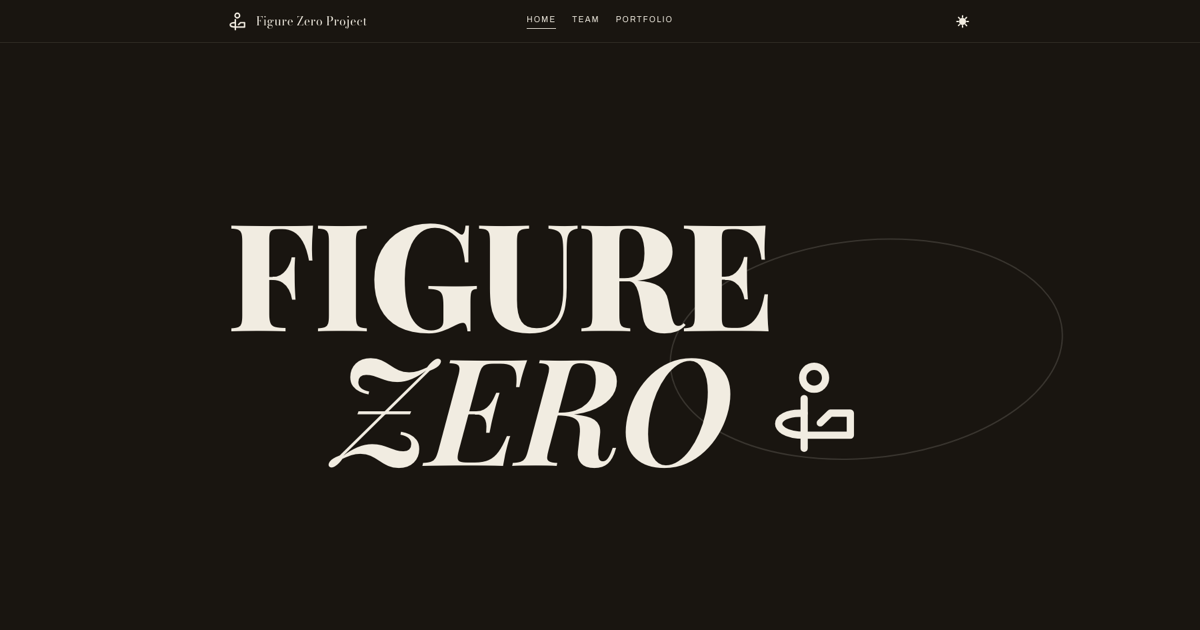
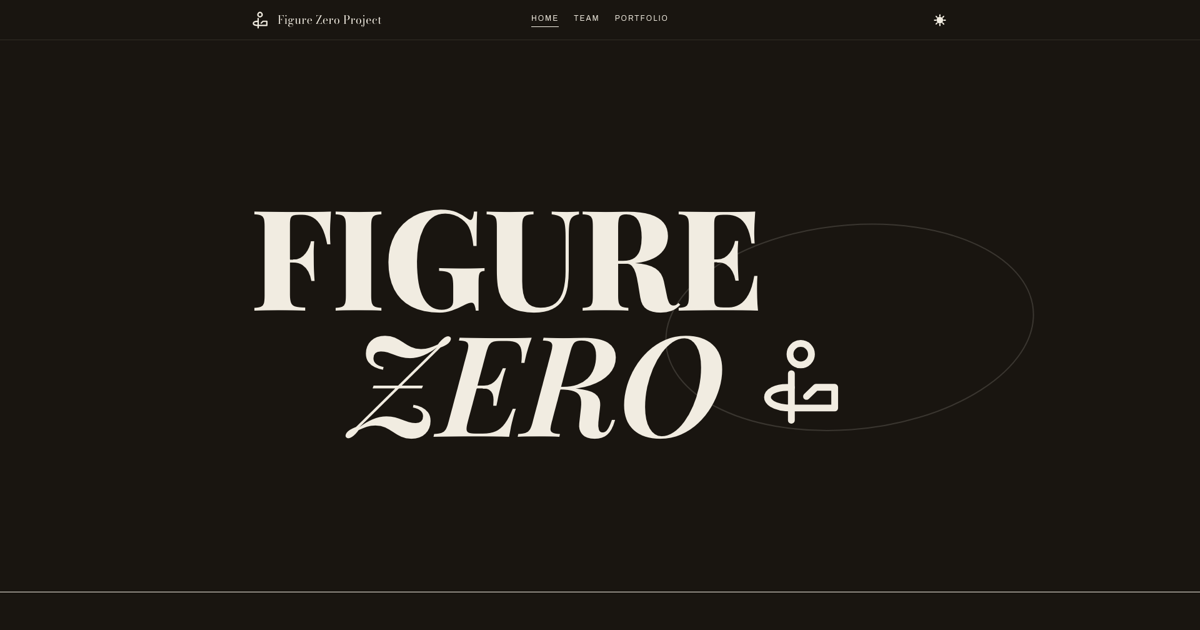
chore: maintain

diff --git a/astro.config.ts b/astro.config.ts
@@ -3,7 +3,7 @@ import react from '@astrojs/react';
 import robots from 'astro-robots-txt';
 import sitemap from '@astrojs/sitemap';
 import tailwind from '@tailwindcss/vite';
-import { defineConfig } from 'astro/config';
+import { defineConfig, fontProviders } from 'astro/config';
 
 export default defineConfig({
     adapter: netlify(),
@@ -13,6 +13,47 @@ export default defineConfig({
     devToolbar: {
         enabled: false,
     },
+    fonts: [
+        {
+            cssVariable: '--font-archivo',
+            display: 'block',
+            name: 'Archivo',
+            provider: fontProviders.fontsource(),
+            styles: ['normal'],
+            subsets: ['latin'],
+            weights: [400, 600],
+        },
+        {
+            cssVariable: '--font-bodoni-moda',
+            display: 'block',
+            fallbacks: ['Georgia', 'serif'],
+            name: 'Bodoni Moda',
+            provider: fontProviders.fontsource(),
+            styles: ['normal', 'italic'],
+            subsets: ['latin'],
+            weights: ['400 900'],
+        },
+        {
+            cssVariable: '--font-playfair-display',
+            display: 'block',
+            fallbacks: ['Georgia', 'serif'],
+            name: 'Playfair Display',
+            provider: fontProviders.fontsource(),
+            styles: ['normal', 'italic'],
+            subsets: ['latin'],
+            weights: ['400 900'],
+        },
+        {
+            cssVariable: '--font-source-serif-4',
+            display: 'block',
+            fallbacks: ['Georgia', 'serif'],
+            name: 'Source Serif 4',
+            provider: fontProviders.fontsource(),
+            styles: ['normal'],
+            subsets: ['latin'],
+            weights: ['200 900'],
+        },
+    ],
     integrations: [
         react(),
         robots(),

diff --git a/tests/unit/middleware.test.ts b/tests/unit/middleware.test.ts
@@ -29,7 +29,7 @@ describe('onRequest', () => {
 
     test('propagates a rejection from next on the /500 path itself', async () => {
         const { context, rewrite } = createContext('/500');
-        const failure = new Error('boom');
+        const failure = new Error('Boom.');
 
         const next: MiddlewareNext = vi.fn(async () => {
             throw failure;
@@ -94,7 +94,7 @@ describe('onRequest', () => {
         const { context, rewrite } = createContext('/api/covers');
 
         const next: MiddlewareNext = vi.fn(async () => {
-            throw new Error('boom');
+            throw new Error('Boom.');
         });
 
         const response = await onRequest(context, next) as Response;
@@ -102,7 +102,7 @@ describe('onRequest', () => {
         expect(response).toBeInstanceOf(Response);
         expect(response.status).toBe(500);
 
-        await expect(response.json()).resolves.toEqual({ error: 'Internal server error' });
+        await expect(response.json()).resolves.toEqual({ error: 'Internal server error.' });
 
         expect(rewrite).not.toHaveBeenCalled();
     });
@@ -111,7 +111,7 @@ describe('onRequest', () => {
         const { context, rewrite, rewritten } = createContext('/team');
 
         const next: MiddlewareNext = vi.fn(async () => {
-            throw new Error('boom');
+            throw new Error('Boom.');
         });
 
         const response = await onRequest(context, next);
@@ -124,7 +124,7 @@ describe('onRequest', () => {
         const { context, rewrite, rewritten } = createContext('/api');
 
         const next: MiddlewareNext = vi.fn(async () => {
-            throw new Error('boom');
+            throw new Error('Boom.');
         });
 
         const response = await onRequest(context, next);

diff --git a/tests/unit/store.test.ts b/tests/unit/store.test.ts
@@ -85,7 +85,7 @@ describe('loadTheme', () => {
         const storage = buildStorage('{ "theme": "light" }');
 
         storage.setItem.mockImplementation(() => {
-            throw new Error('denied');
+            throw new Error('Denied.');
         });
 
         vi.stubGlobal('localStorage', storage);
@@ -111,7 +111,7 @@ describe('loadTheme', () => {
         const storage = buildStorage();
 
         storage.getItem.mockImplementation(() => {
-            throw new Error('denied');
+            throw new Error('Denied.');
         });
 
         vi.stubGlobal('localStorage', storage);
@@ -124,7 +124,7 @@ describe('loadTheme', () => {
         const storage = buildStorage('{"theme":"purple"}');
 
         storage.removeItem.mockImplementation(() => {
-            throw new Error('denied');
+            throw new Error('Denied.');
         });
 
         vi.stubGlobal('localStorage', storage);
@@ -150,7 +150,7 @@ describe('saveTheme', () => {
         const storage = buildStorage();
 
         storage.setItem.mockImplementation(() => {
-            throw new Error('denied');
+            throw new Error('Denied.');
         });
 
         vi.stubGlobal('localStorage', storage);

diff --git a/tests/e2e/prod.test.ts b/tests/e2e/prod.test.ts
@@ -54,7 +54,7 @@ function getEntries(root: string, collection: string) {
 function getHeaderNames(config: string, scope: string) {
     const section = config.split('[[headers]]').find(block => block.includes(`for = '${scope}'`));
 
-    if (section === undefined) throw new Error(`missing headers block for ${scope} in netlify.toml`);
+    if (section === undefined) throw new Error(`Missing headers block for ${scope} in netlify.toml.`);
 
     return [...section.matchAll(/^([\w-]+) = /gm)]
         .map(match => match[1] ?? '')
@@ -64,7 +64,7 @@ function getHeaderNames(config: string, scope: string) {
 function getHeaderValue(config: string, name: string) {
     const match = config.match(new RegExp(`^${name} = (['"])(.+)\\1$`, 'm'));
 
-    if (match === null) throw new Error(`missing ${name} in netlify.toml`);
+    if (match === null) throw new Error(`Missing ${name} in netlify.toml.`);
 
     return match[2];
 }
@@ -107,7 +107,7 @@ test.describe('production api', () => {
 
         const body: Record<string, unknown> = await response.json();
 
-        expect(body).toEqual({ error: 'Not found' });
+        expect(body).toEqual({ error: 'Not found.' });
     });
 });
 

diff --git a/src/global.css b/src/global.css
@@ -11,21 +11,10 @@
     --color-linen: light-dark(#e7e2d7, #332e26);
     --color-taupe: light-dark(#6e675d, #a79d8c);
     --color-umber: light-dark(#3b362e, #cfc7b7);
-    --font-display:
-        'Bodoni Moda Variable',
-        serif;
-    --font-poster:
-        'Playfair Display Variable',
-        Georgia,
-        serif;
-    --font-sans:
-        'Archivo',
-        system-ui,
-        sans-serif;
-    --font-serif:
-        'Source Serif 4 Variable',
-        Georgia,
-        serif;
+    --font-display: var(--font-bodoni-moda);
+    --font-poster: var(--font-playfair-display);
+    --font-sans: var(--font-archivo);
+    --font-serif: var(--font-source-serif-4);
     --spacing: 4px;
     --text-body: 18px;
     --text-heading: clamp(32px, calc(22.6667px + 2.9167vw), 60px);

diff --git a/tests/e2e/status.test.ts b/tests/e2e/status.test.ts
@@ -29,7 +29,7 @@ async function expectJsonNotFound(response: APIResponse) {
 
     const body: Record<string, unknown> = await response.json();
 
-    expect(body).toEqual({ error: 'Not found' });
+    expect(body).toEqual({ error: 'Not found.' });
 }
 
 function getSecurityHeaders() {
@@ -37,7 +37,7 @@ function getSecurityHeaders() {
 
     const section = config.split('[[headers]]').find(block => block.includes(`for = '/*'`));
 
-    if (section === undefined) throw new Error('missing headers block for /* in netlify.toml');
+    if (section === undefined) throw new Error('Missing headers block for /* in netlify.toml.');
 
     return [...section.matchAll(/^([a-z-]+) = (['"])(.*)\2$/gm)]
         .map(match => [match[1] ?? '', match[3] ?? ''] as const)

diff --git a/src/middleware.ts b/src/middleware.ts
@@ -12,7 +12,7 @@ export const onRequest = defineMiddleware(async (context, next) => {
 
         return response;
     } catch {
-        if (isApi) return Response.json({ error: 'Internal server error' }, { status: 500 });
+        if (isApi) return Response.json({ error: 'Internal server error.' }, { status: 500 });
 
         return context.rewrite('/500');
     }

diff --git a/src/lib/utils.ts b/src/lib/utils.ts
@@ -5,7 +5,7 @@ const IMAGES = import.meta.glob<ImageMetadata>('/src/images/**/*.webp', { eager:
 export function resolveImage(path: string): ImageMetadata {
     const image = IMAGES[`/src${path}`];
 
-    if (!image) throw new Error(`failed to resolve image ${path}`);
+    if (!image) throw new Error(`Failed to resolve image ${path}.`);
 
     return image;
 }

diff --git a/tests/e2e/motion.test.ts b/tests/e2e/motion.test.ts
@@ -87,7 +87,7 @@ function getHeaderHeight() {
 
     const match = styles.match(/--header-height: (\d+)px/);
 
-    if (match === null) throw new Error('missing --header-height in src/global.css');
+    if (match === null) throw new Error('Missing --header-height in src/global.css.');
 
     return Number(match[1]);
 }

diff --git a/tests/integration/apiPath.test.ts b/tests/integration/apiPath.test.ts
@@ -18,7 +18,7 @@ async function expectNotFoundJson(response: Response, method: string) {
 
     const result: Record<string, unknown> = await response.json();
 
-    expect(result, method).toEqual({ error: 'Not found' });
+    expect(result, method).toEqual({ error: 'Not found.' });
 }
 
 describe('api path', () => {

diff --git a/tests/unit/utils.test.ts b/tests/unit/utils.test.ts
@@ -62,6 +62,6 @@ describe('resolveImage', () => {
         }
 
         expect(caught).toBeInstanceOf(Error);
-        expect((caught as Error).message).toBe(`failed to resolve image ${UNKNOWN_IMAGE}`);
+        expect((caught as Error).message).toBe(`Failed to resolve image ${UNKNOWN_IMAGE}.`);
     });
 });

diff --git a/src/pages/api/[...path].ts b/src/pages/api/[...path].ts
@@ -2,4 +2,4 @@ import type { APIRoute } from 'astro';
 
 export const prerender = false;
 
-export const ALL: APIRoute = () => Response.json({ error: 'Not found' }, { status: 404 });
+export const ALL: APIRoute = () => Response.json({ error: 'Not found.' }, { status: 404 });
